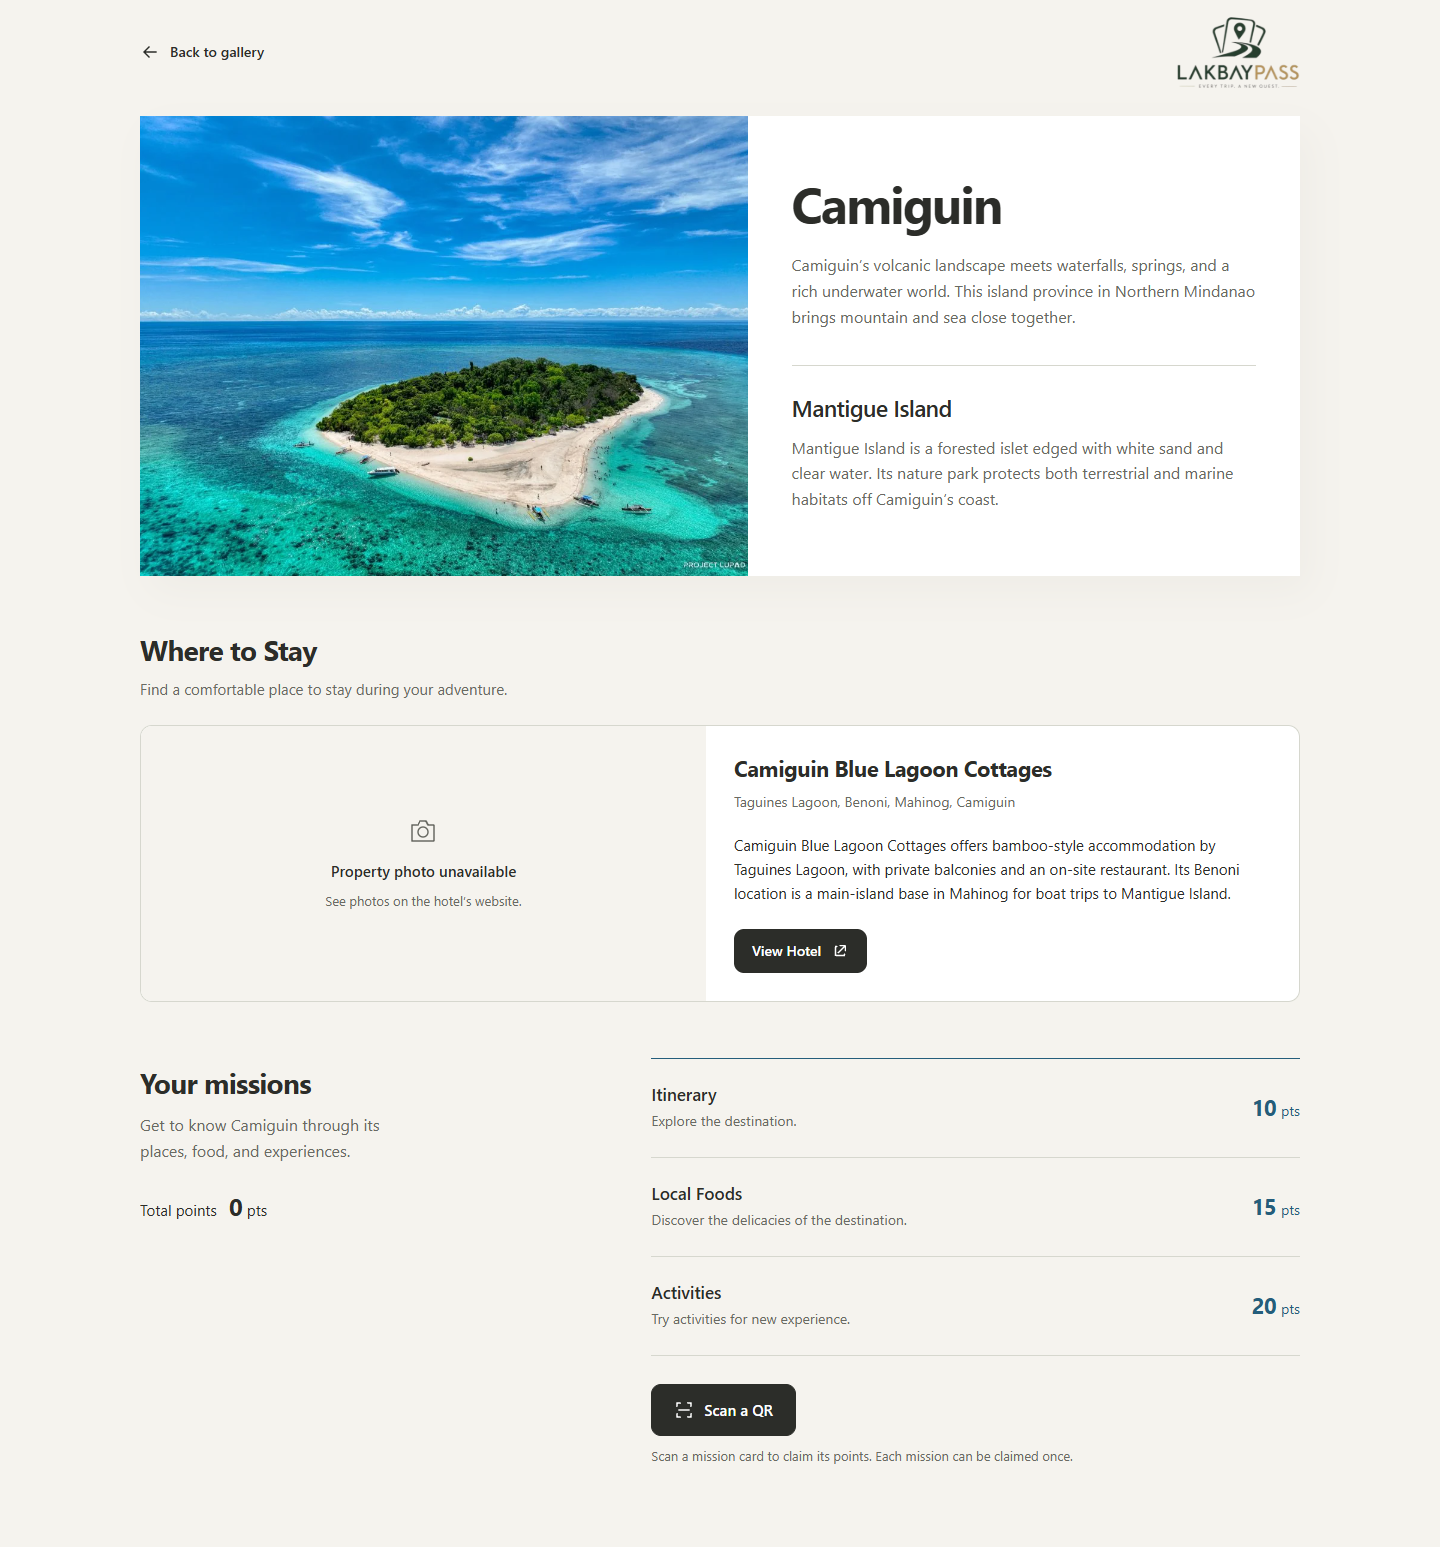
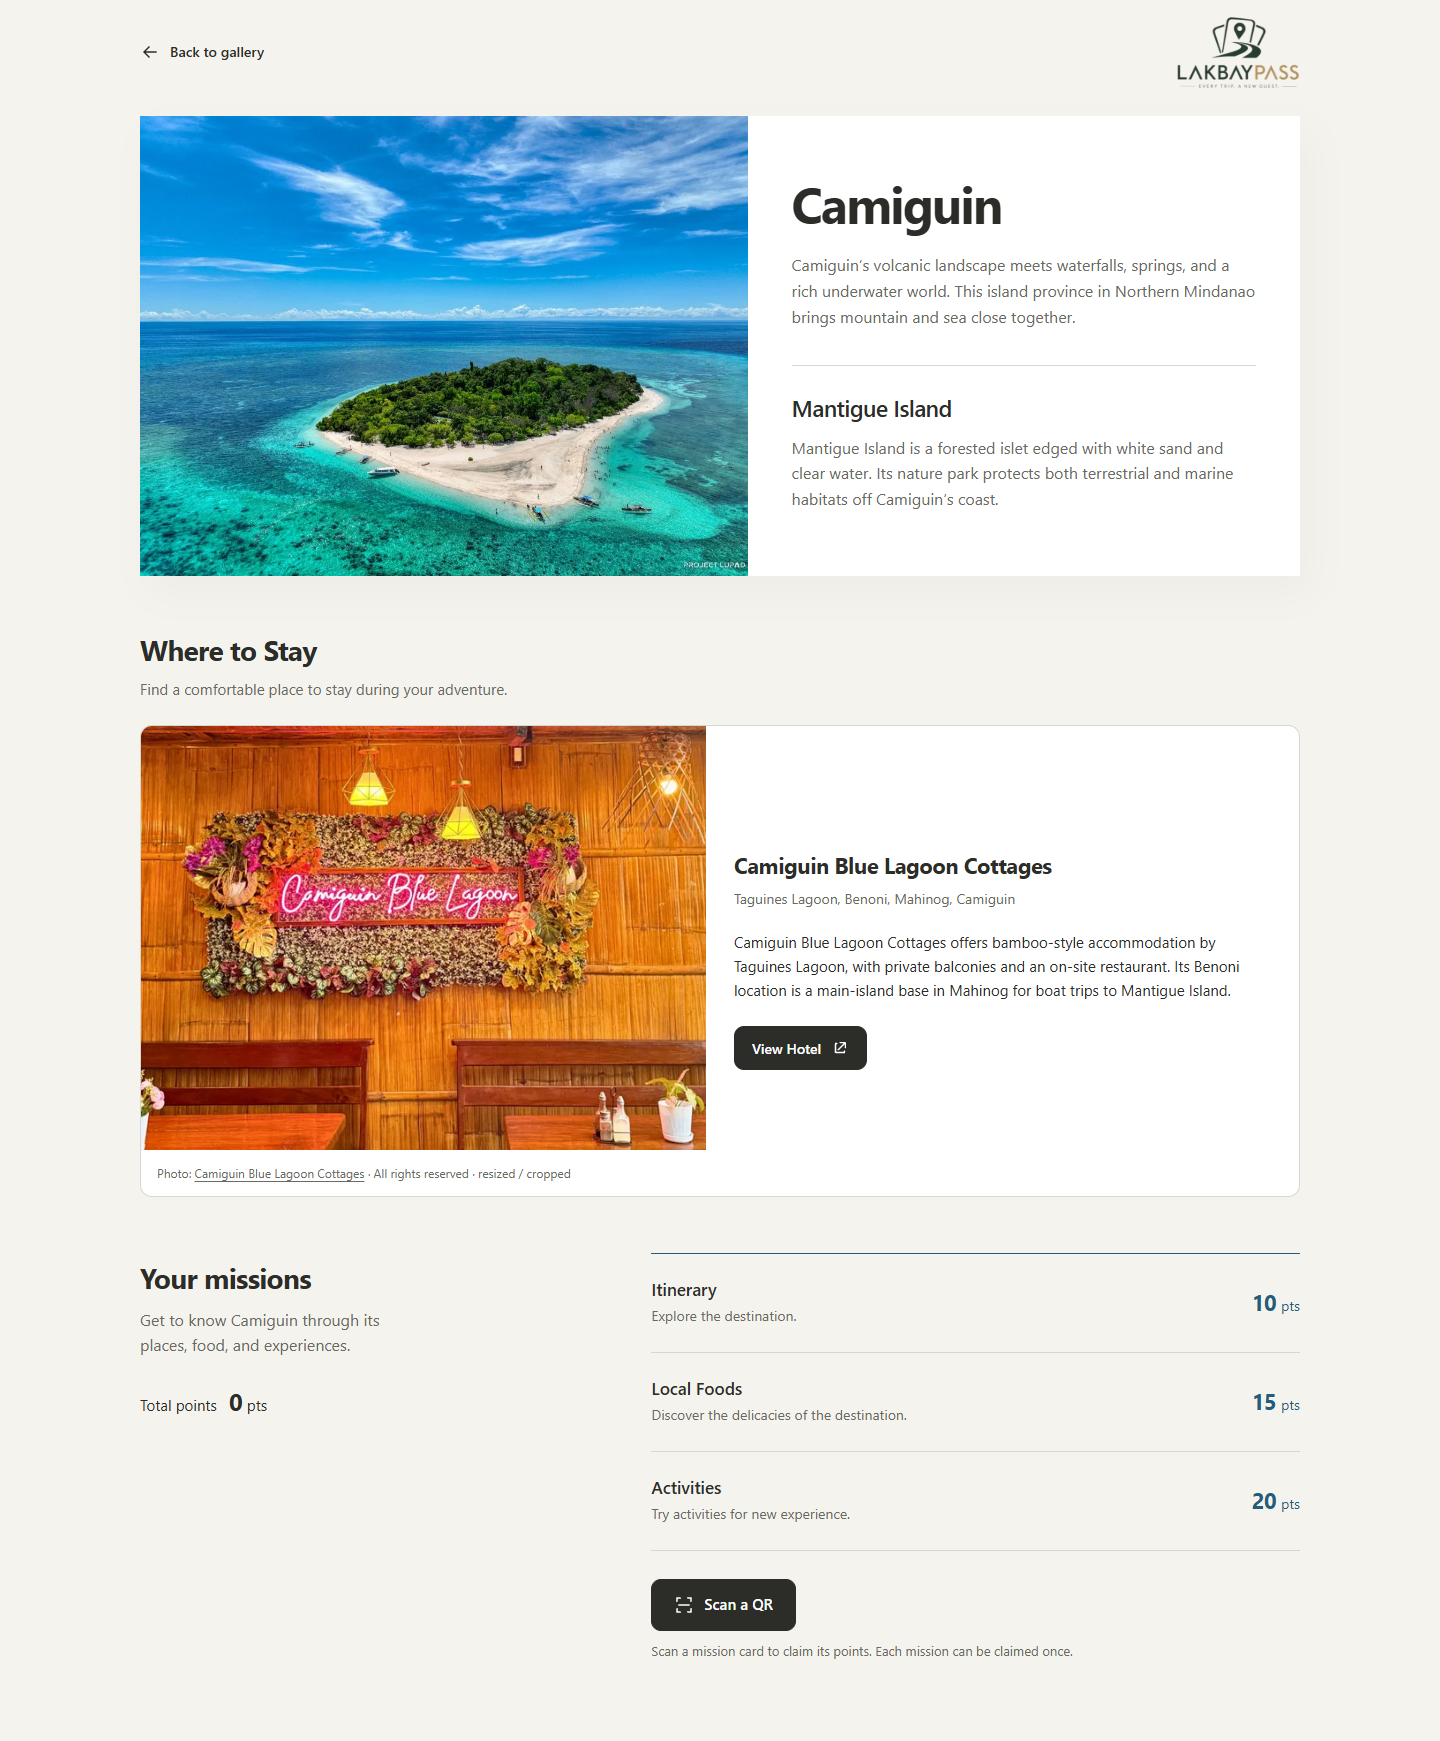
add hotel reco

diff --git a/templates/components/hotels.html b/templates/components/hotels.html
@@ -23,7 +23,7 @@
         {% if hotel.photo and hotel.image %}
         <figcaption class="hotel-photo-credit">
           Photo: <a href="{{ hotel.photo.source_url }}" target="_blank" rel="noopener noreferrer">{{ hotel.photo.author }}</a>
-          · <a href="{{ hotel.photo.license_url }}" target="_blank" rel="noopener noreferrer">{{ hotel.photo.license }}</a> · resized / cropped
+          · {% if hotel.photo.license_url %}<a href="{{ hotel.photo.license_url }}" target="_blank" rel="noopener noreferrer">{{ hotel.photo.license }}</a>{% else %}{{ hotel.photo.license }}{% endif %} · resized / cropped
         </figcaption>
         {% endif %}
       </figure>

diff --git a/tests/test_hotels.py b/tests/test_hotels.py
@@ -34,7 +34,7 @@ EXPECTED = {
                  'Taguines Lagoon, Benoni, Mahinog, Camiguin',
                  'https://camiguinbluelagoon.com/'),
 }
-FALLBACK_DESTINATIONS = {'cebu', 'siargao', 'camiguin'}
+OFFICIAL_PHOTO_DESTINATIONS = {'cebu', 'siargao', 'camiguin'}
 SUBTITLE = 'Find a comfortable place to stay during your adventure.'
 
 
@@ -109,22 +109,28 @@ class HotelCatalogTests(unittest.TestCase):
                 for source in hotel['sources']:
                     self.assert_https(source['url'])
                     self.assertTrue(source['supports'].strip())
-                if slug in FALLBACK_DESTINATIONS:
-                    self.assertIsNone(hotel['photo'])
-                    self.assertIn('approved', hotel['photo_status'].lower())
+                self.assertIsNotNone(hotel['photo'])
 
-    def test_licensed_photos_are_real_local_webp_variants_with_provenance(self):
-        for slug in set(EXPECTED) - FALLBACK_DESTINATIONS:
+    def test_all_six_photos_are_real_local_webp_variants_with_provenance(self):
+        for slug in EXPECTED:
             with self.subTest(slug=slug):
                 hotel = get_hotels(slug, lakbay.app.static_folder)[0]
                 photo = hotel['photo']
-                self.assertIn(photo['license'], {'CC BY 2.0', 'CC BY-SA 4.0'})
                 for field in ('author', 'alt', 'changes'):
                     self.assertTrue(photo[field].strip(), field)
-                for field in ('source_url', 'original_url', 'license_url', 'author_url'):
+                for field in ('source_url', 'original_url', 'author_url'):
                     self.assert_https(photo[field])
-                self.assertIn('commons.wikimedia.org', photo['source_url'])
-                self.assertIn('creativecommons.org/licenses/', photo['license_url'])
+                if slug in OFFICIAL_PHOTO_DESTINATIONS:
+                    self.assertEqual(photo['source_url'], EXPECTED[slug][2])
+                    self.assertEqual(photo['license'], 'All rights reserved')
+                    self.assertIsNone(photo['license_url'])
+                    self.assertEqual(urlparse(photo['original_url']).netloc,
+                                     urlparse(photo['source_url']).netloc)
+                else:
+                    self.assertIn(photo['license'], {'CC BY 2.0', 'CC BY-SA 4.0'})
+                    self.assert_https(photo['license_url'])
+                    self.assertIn('commons.wikimedia.org', photo['source_url'])
+                    self.assertIn('creativecommons.org/licenses/', photo['license_url'])
                 for field, width in (('image', 640), ('image_large', 960)):
                     self.assertIsNotNone(hotel[field])
                     asset = Path(lakbay.app.static_folder) / hotel[field]
@@ -226,7 +232,7 @@ class HotelRouteTests(unittest.TestCase):
                 self.assertIn('/static/scanner.js', scripts)
                 self.assertIn('defer', scripts['/static/hotels.js']['attrs'])
 
-    def test_visible_photo_has_attribution_and_no_unlicensed_substitutions(self):
+    def test_visible_photo_has_matching_source_and_rights_credit(self):
         for slug in EXPECTED:
             with self.subTest(slug=slug):
                 page = self.page(slug)
@@ -235,11 +241,6 @@ class HotelRouteTests(unittest.TestCase):
                 credits = page.find('figcaption', 'hotel-photo-credit', within=card)
                 fallback = page.find(class_name='hotel-photo-fallback', within=card)[0]
                 self.assertIn('Property photo unavailable', text(fallback))
-                if slug in FALLBACK_DESTINATIONS:
-                    self.assertEqual(images, [])
-                    self.assertEqual(credits, [])
-                    self.assertNotIn('hidden', fallback['attrs'])
-                    continue
                 hotel = get_hotels(slug, lakbay.app.static_folder)[0]
                 photo = hotel['photo']
                 self.assertEqual(len(images), 1)
@@ -252,7 +253,10 @@ class HotelRouteTests(unittest.TestCase):
                 self.assertIn(photo['license'], text(credits[0]))
                 self.assertIn('resized / cropped', text(credits[0]))
                 links = {link['attrs']['href'] for link in page.find('a', within=credits[0])}
-                self.assertEqual(links, {photo['source_url'], photo['license_url']})
+                expected_links = {photo['source_url']}
+                if photo['license_url']:
+                    expected_links.add(photo['license_url'])
+                self.assertEqual(links, expected_links)
                 self.assertIn('hidden', fallback['attrs'])
 
     def test_all_cards_render_honest_fallback_when_static_assets_are_absent(self):

diff --git a/static/hotels/SOURCES.md b/static/hotels/SOURCES.md
@@ -25,6 +25,18 @@ The six local image files are the `-640.webp` and `-960.webp` variants of the th
 
 Photograph dates describe the historical source images; they do not guarantee present-day appearance. All three Commons license records were readable during the audit. Direct original-file checks returned HTTP 200 for Hue and Hotel Luna; Coco Grove's original URL was rate-limited with HTTP 429, while its Commons record remained readable.
 
+**Official property website photographs**
+
+The user requested completion of the remaining three hotel pictures on 2026-11-26. These photographs come from the named properties' official websites and are saved locally as `-640.webp` and `-960.webp` variants. They are cropped to 4:3, resized and converted to WebP. The credit names the publishing property; a separate photographer was not identified. Original rights are retained: no Creative Commons license or reuse permission is asserted, and `license_url` is `null`. Attribution links to the official source page; rights text is not presented as a license link.
+
+| Asset base / depicted subject | Official source and original file |
+| --- | --- |
+| `fantasy-lodge-cebu` — swimming pool and tropical trees | [Fantasy Lodge Cebu](https://fantasy-lodge.com/); [original homepage resort photograph](https://fantasy-lodge.com/_nuxt/hero2.CS9nsnww.jpg). The crop centers on the pool to keep the swimmer fully visible. |
+| `mariden-resort` — swimming pool, fountains and cottages | [Mariden Resort & Homestay Siargao](https://www.maridenresort.com/); [original homepage photograph](https://www.maridenresort.com/images/general/hero-desktop-opt.webp). |
+| `blue-lagoon-cottages` — bamboo-walled dining area | [Camiguin Blue Lagoon Cottages](https://camiguinbluelagoon.com/); [original homepage slider photograph](https://camiguinbluelagoon.com/images/uploads/586/3947_618slider_001.webp). |
+
+All three original files were retrieved and visually checked against the official pages. Each derivative has a `.webp.json` record containing its source, original URL, credit, retained rights and modifications. These source photographs do not guarantee the properties' present-day appearance.
+
 **Photo fallback policy**
 
-The user approved a clearly labeled non-photographic fallback for **Fantasy Lodge Cebu, Mariden Resort and Camiguin Blue Lagoon Cottages** because an explicitly reusable actual-property photograph was not verified. Their catalog `photo` values remain `null`. Do not substitute generic scenery, another hotel, a stock photograph or an AI-generated hotel image. Public access to a hotel website, booking listing or social-media image does not establish reuse permission; Blue Lagoon's official site explicitly states “All Rights Reserved.” Obtain permission covering this use or verify an appropriate license before adding a photograph, then record its author, source, original file, license and edits alongside the asset. Recheck property facts and departure arrangements when changing the catalog.
+All six catalog entries now have actual property photographs. A clearly labeled non-photographic fallback remains for absent local assets or failed image requests, preserving the hotel description and official link. Do not substitute unrelated scenery, another property or an AI-generated hotel image. Keep original credits and rights records when replacing any photograph.

diff --git a/PRODUCT.md b/PRODUCT.md
@@ -29,7 +29,7 @@ This project currently lets users create an account, log in, explore a destinati
 - The gallery supports drag/swipe, arrow keys and direction controls, plus Play/Pause. All tiles share a slow diagonal drift; dragging pauses movement and release restores the prior playback state. Reduced motion starts paused; without JavaScript, all six places remain available in a static gallery.
 - `/destinations/<slug>` uses the dashboard login check: logged-out requests redirect to `/login`. Only `palawan`, `vigan`, `cebu`, `siquijor`, `siargao`, and `camiguin` render their matching `destinations/<slug>.html`; authenticated unknown slugs return 404.
 - The six detail templates share a base with the destination photo, destination and attraction descriptions, a Back to gallery link, and mission values: Itinerary 10 pts, Local Foods 15 pts, Activities 20 pts. The list shows saved Claimed states and the account's total points.
-- Each destination includes Where to Stay between its main information and missions, with a researched property in the attraction or departure area, town/city, a two-sentence description and an official View Hotel link. The curated catalog in `data/hotel_recommendations.json` records evidence checked on 2026-11-26. Three actual property photos are locally optimized WebP files with responsive sources, lazy loading and linked CC credits. The user approved labeled photo fallbacks for Cebu, Siargao and Camiguin until permitted photos are available. Failed or missing images keep the hotel details and official link usable. See `static/hotels/SOURCES.md` for sources and reuse rights.
+- Each destination includes Where to Stay between its main information and missions, with a researched property in the attraction or departure area, town/city, a two-sentence description and an official View Hotel link. The curated catalog in `data/hotel_recommendations.json` records evidence checked on 2026-11-26. All six properties have local responsive WebP photographs with lazy loading and source credits. Palawan, Vigan and Siquijor retain linked CC licenses; Cebu, Siargao and Camiguin use photos from their official property websites with original rights retained. Failed or missing images keep the hotel details and official link usable. See `static/hotels/SOURCES.md` for photograph provenance and rights records.
 - Scan a QR opens an inline live-camera scanner only on tap, prefers the rear camera, and automatically submits decoded mission QR text. Closing, Escape, hiding/leaving the page, or detecting a QR stops the camera, including permission requests that resolve late. JavaScript and a secure camera context are required.
 - The 18 exact QR assignments are stored in MySQL. Each mission can be claimed once per account; repeated scans add zero points, and another account can claim the same mission once. The server verifies the signed-in user, CSRF token, destination, and stored mission value. Claimed states and totals come from saved claims, with distinct feedback for repeat, unknown, and wrong-destination scans.
 - See [database setup and scanner verification](database/README.md) for the safe, rerunnable mission import, deployment requirements, and test commands. The import preserves existing card IDs and claims and stops on conflicting assignments.

diff --git a/DESIGN.md b/DESIGN.md
@@ -83,6 +83,7 @@ State transitions last 160ms with ease-out for colors and shadows only; reduced-
 **Destination navigation:** All six actual JPGs are present. The photo and caption form one real same-tab link, with the same href on repeated copies. Click/tap opens the destination; movement beyond 6px becomes a drag without navigation. Keep one keyboard representative per destination, reveal it on focus, and pause drift while it is focused.
 **Destination details:** The protected `/destinations/<slug>` route allows exactly six slugs and their matching detail templates; authenticated unknown slugs return 404. All six extend `destinations/base.html`, reusing the resolved photo, destination and attraction descriptions, and Back to gallery navigation. A shared mission list displays Itinerary 10 pts, Local Foods 15 pts, and Activities 20 pts, with a text Claimed state above each saved reward and an account total beside the mission heading. Retain destination accents for the point values.
 **Destination scanner:** Scan a QR uses the established charcoal action, white text, 10px corners, and a minimum 52px height. The inline scanner uses a quiet top divider, a title and Close action, and a plain live preview with a 4:3 aspect ratio and maximum 400px height. Close and retry controls use white surfaces, outlined borders, 10px corners, and minimum 44px targets. Show the preview only while the camera is active. Opening moves focus to Close; Close or Escape restores focus to Scan a QR. Camera instructions, pending claims, saved results, and recoverable errors use explicit polite status text; claim feedback sits in a white bordered notice. Saved results update the matching mission row and account total. Keep the photo/story composition and existing palette intact; operational setup belongs in [database/README.md](database/README.md).
+**Hotel photographs:** All six Where to Stay cards show an actual property photograph using local 640px and 960px WebP sources and a 4:3 crop. Preserve the source credit below the photo; link a reuse license only when one is recorded. Official-site photos retain their original rights as plain text. Image failures reveal the existing labeled fallback and hide the image credit while keeping the property details and View Hotel link available.
 
 ## Do's and Don'ts
 - **Do** use white surfaces, warm off-white surroundings, and dark readable text.

diff --git a/.impeccable/briefs/hotels.md b/.impeccable/briefs/hotels.md
@@ -21,16 +21,17 @@ single recommendation uses a photo/text split on desktop and stacks on phones;
 multiple recommendations use independent cards in the same visual grammar.
 
 FORM: code-led extension; no concept roll or new visual identity. Photo credits
-link to the original work and its reuse license. Image failure reveals an honest
+link to the original work and its reuse license when recorded. Image failure reveals an honest
 text fallback while location, description and the official link remain usable.
 seed: none (ordinary extension)
 
 FINISH: unreviewed and undocumented is unfinished; this build ends with the finish review, the verdict, DESIGN.md, and every shipping raster carrying its provenance
 
-The user approved labeled photo fallbacks wherever explicit reuse permission is
-unclear. This applies to Fantasy Lodge Cebu, Mariden Resort and Camiguin Blue
-Lagoon Cottages. No copyrighted official-site photos are copied for those cards.
-Hue, Hotel Luna and Coco Grove use verified CC-licensed property photographs.
+The user subsequently requested completion of all six hotel photographs.
+Fantasy Lodge Cebu, Mariden Resort and Camiguin Blue Lagoon Cottages now use
+actual photos from their official websites with source credits and original
+rights retained; no open license or reuse permission is asserted. Hue, Hotel
+Luna and Coco Grove retain verified CC-licensed property photographs.
 Never replace a property photo with unrelated scenery or add invented travel
 times, prices, review scores or amenities. Verify source details as of2026-11-26.
 
